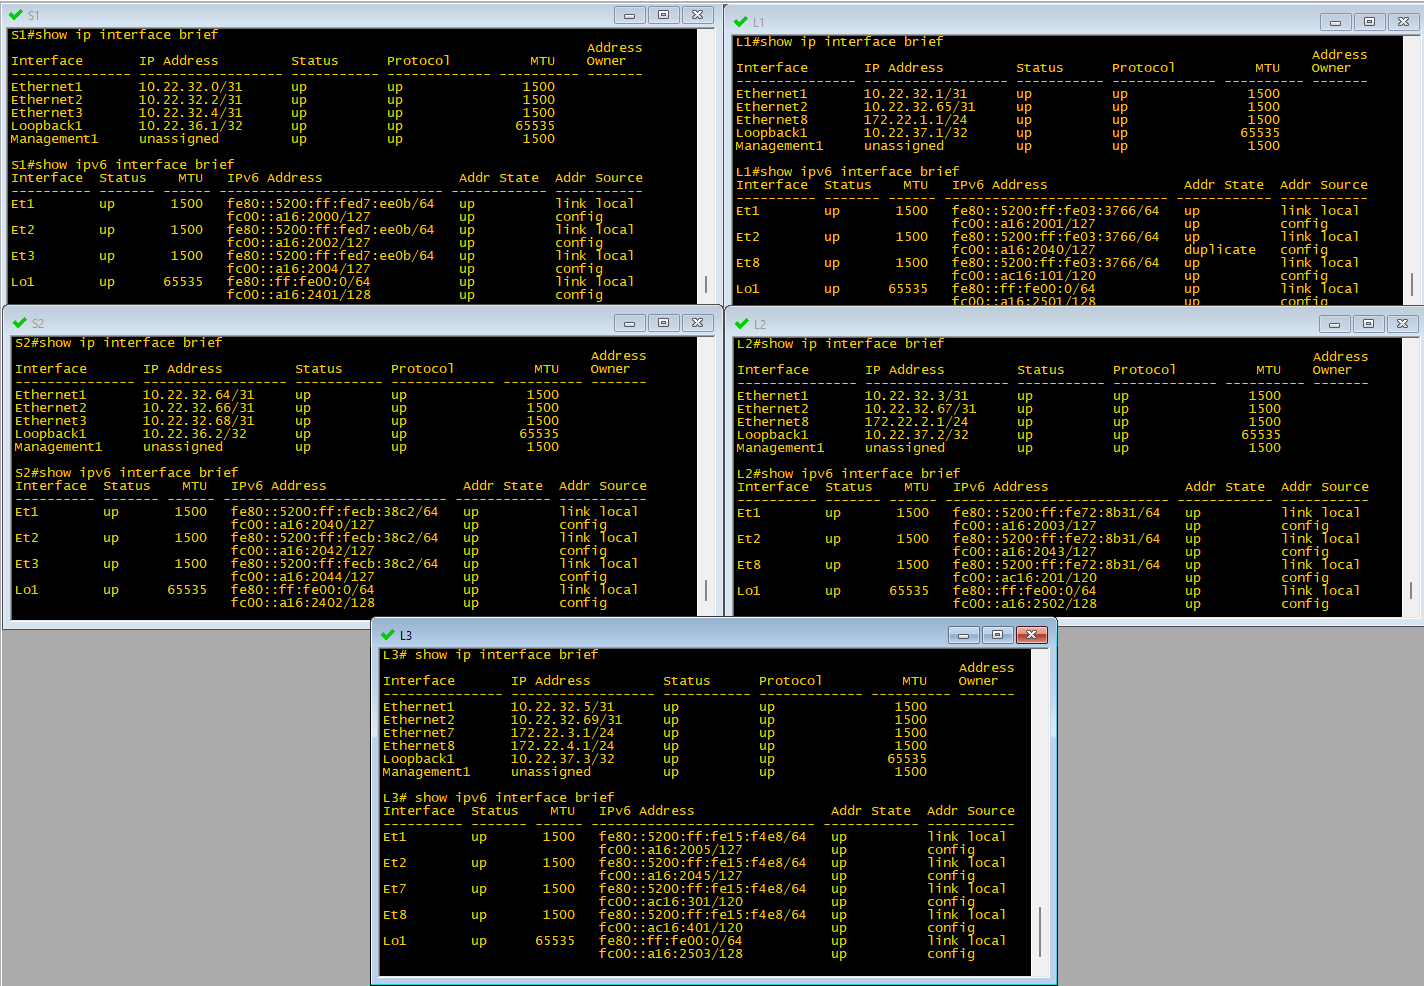
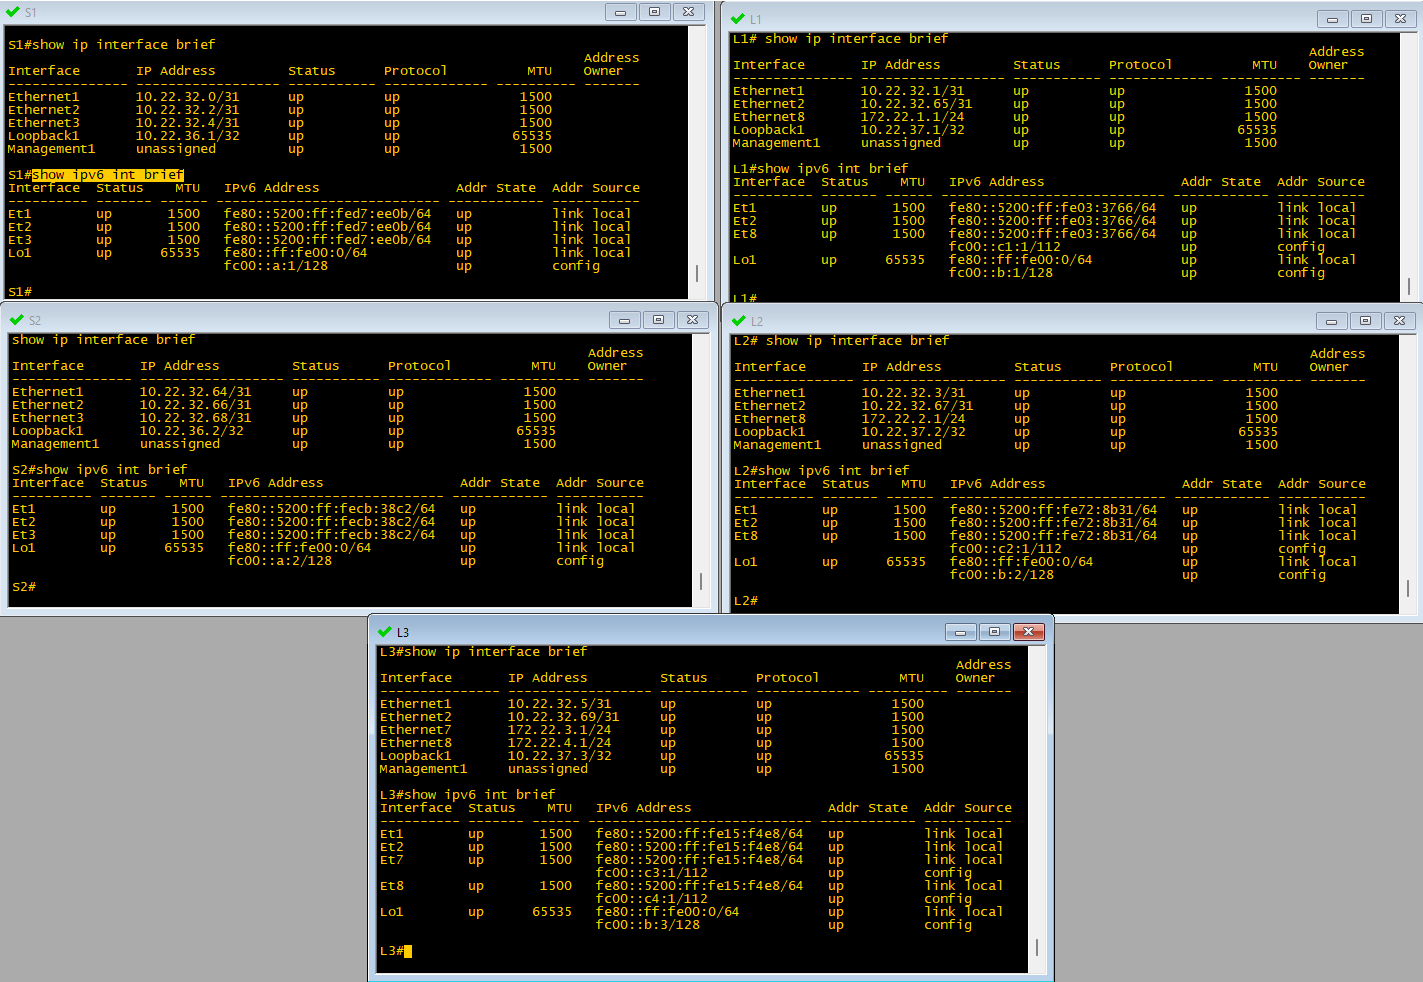
L3

Changed region(s): [[0.0, 0.0, 1.0, 1.0], [0.5257, 0.6721, 0.5875, 0.7943]]

diff --git a/Lab3/readme.md b/Lab3/readme.md
@@ -19,7 +19,7 @@
 ![Схема сети, используемая в данной лабораторной работе](./img/topology_lab3.png)
 
 
-### IPv4 адресация, используемаяв данной работе
+### IPv4 адресация, используемая в данной работе
 
 
 IPv4 адресация для устройств на стенде приведена в таблицах ниже.
@@ -58,42 +58,37 @@ IPv4 адресация для устройств на стенде привед
 | **C4** | 172.22.4.44/24 | 172.22.4.1 |
 
 
-Для IPv6 адресного плана, чтобы долго не думать, возмем за основу адресацию IPv4, просто переложив адреса IPv4 в последние 4 октета адреса IPv6  в диапазоне ULA (Unique Local Address) (fc00::/7) 
+Для IPv6 адресов клиентских подсетей и loopback возмем произвольные адреса в диапазоне ULA (Unique Local Address) (fc00::/7). 
+Для P2P сетей будем использовать link-local адреса.
 
 ### IPv6 адресация, используемая в данной работе
 
-#### Подсети, выделенные для P2P интерфейсов:
-
-| P2P |	L1 | L2 | L3 |
-|---|----|---|---|
-| **S1** | fc00::a16:2000/127 | fc00::a16:2002/127 | fc00::a16:2004/127 |
-| **S2** | fc00::a16:2040/127 | fc00::a16:2042/127 | fc00::a16:2044/127 |
 
 #### Адреса Loopback интерфейсов:
 
 |  Spine |	S1 | S2 |
 |-------------|---------------|---------------|
-| loopback | fc00::a16:2401/128 | fc00::a16:2402/128 |
+| loopback | fc00::a:1/128 |  fc00::a:2/128  |
 
 |  Leaf |	L1 | L2 | L3 |
 |-------------|---------------|---------------|------------|
-| loopback |	fc00::a16:2501/128 | fc00::a16:2502/128 | fc00::a16:2503/128 |
+| loopback |  fc00::b:1/128  | fc00::b:2/128 | fc00::b:3/128 |
 
 #### Адреса интерфейсов в сторону клиентских подсетей:
 
 | If\Sw | L1 | L2 | L3 |
 |---|--|--|--|
-| **Ethernet 7** | | | fc00::ac16:301/120 |
-| **Ethernet 8** | fc00::ac16:101/120 | fc00::ac16:101/120 | fc00::ac16:401/120 |
+| **Ethernet 7** | | | fc00::c3.1/112 |
+| **Ethernet 8** | fc00::c1:1/112 | fc00::c2:1/112 | fc00::c4:1/112 |
 
 #### Настройки IP на клиентских устройствах:
 
 | Client | IP Addr | Def GW |
 |---|---|---|
-| **C1** | fc00::ac16:111/120 | fc00::ac16:101 |
-| **C2** | fc00::ac16:222/120 | fc00::ac16:201 |
-| **C3** | fc00::ac16:333/120 | fc00::ac16:301 |
-| **C4** | fc00::ac16:444/120 | fc00::ac16:401 |
+| **C1** | fc00::c1:11/120 | fc00::c1.1 |
+| **C2** | fc00::c2:22/120 | fc00::c2.1 |
+| **C3** | fc00::c3:33/120 | fc00::c3.1 |
+| **C4** | fc00::c4:44/120 | fc00::c4.1 |
 
 
 
@@ -120,7 +115,8 @@ IPv4 адресация для устройств на стенде привед
 #### Настраиваем интерфейсы
 
 - включаем на коммутаторе маршрутизацию IPv6;
-- на всех интерфейсах настраивает IPv6 адрес в дополнение к уже существующему IPv4;
+- включаем на интерфейсах IPv6;
+- на loopback и клиентских интерфейсах настраивает IPv6 адрес в дополнение к уже существующему IPv4;
 - включаем на интерфейсе протокол IS-IS для instance Underlay;
 - настраиваем тип интерфейса L1 и тип сети point-to-point;
 - включаем BFD и настраиваем рекомендованные значения таймеров;
@@ -138,7 +134,7 @@ interface Ethernet1
    no switchport
    ip address 10.22.32.0/31
    bfd interval 100 min-rx 100 multiplier 3
-   ipv6 address fc00::a16:2000/127
+   ipv6 enable
    isis enable Underlay
    isis bfd
    isis circuit-type level-1
@@ -151,7 +147,7 @@ interface Ethernet2
    no switchport
    ip address 10.22.32.2/31
    bfd interval 100 min-rx 100 multiplier 3
-   ipv6 address fc00::a16:2002/127
+   ipv6 enable
    isis enable Underlay
    isis bfd
    isis circuit-type level-1
@@ -164,7 +160,7 @@ interface Ethernet3
    no switchport
    ip address 10.22.32.4/31
    bfd interval 100 min-rx 100 multiplier 3
-   ipv6 address fc00::a16:2004/127
+   ipv6 enable
    isis enable Underlay
    isis bfd
    isis circuit-type level-1
@@ -174,7 +170,7 @@ interface Ethernet3
 !
 interface Loopback1
    ip address 10.22.36.1/32
-   ipv6 address fc00::a16:2401/128
+   ipv6 address fc00::a:1/128
    isis enable Underlay
    isis passive
 !
@@ -204,7 +200,7 @@ interface Ethernet1
    no switchport
    ip address 10.22.32.64/31
    bfd interval 100 min-rx 100 multiplier 3
-   ipv6 address fc00::a16:2040/127
+   ipv6 enable
    isis enable Underlay
    isis bfd
    isis circuit-type level-1
@@ -217,7 +213,7 @@ interface Ethernet2
    no switchport
    ip address 10.22.32.66/31
    bfd interval 100 min-rx 100 multiplier 3
-   ipv6 address fc00::a16:2042/127
+   ipv6 enable
    isis enable Underlay
    isis bfd
    isis circuit-type level-1
@@ -230,7 +226,7 @@ interface Ethernet3
    no switchport
    ip address 10.22.32.68/31
    bfd interval 100 min-rx 100 multiplier 3
-   ipv6 address fc00::a16:2044/127
+   ipv6 enable
    isis enable Underlay
    isis bfd
    isis circuit-type level-1
@@ -240,7 +236,7 @@ interface Ethernet3
 !
 interface Loopback1
    ip address 10.22.36.2/32
-   ipv6 address fc00::a16:2402/128
+   ipv6 address fc00::a:2/128
    isis enable Underlay
    isis passive
 !
@@ -270,7 +266,7 @@ interface Ethernet1
    no switchport
    ip address 10.22.32.1/31
    bfd interval 100 min-rx 100 multiplier 3
-   ipv6 address fc00::a16:2001/127
+   ipv6 enable
    isis enable Underlay
    isis bfd
    isis circuit-type level-1
@@ -283,7 +279,7 @@ interface Ethernet2
    no switchport
    ip address 10.22.32.65/31
    bfd interval 100 min-rx 100 multiplier 3
-   ipv6 address fc00::a16:2040/127
+   ipv6 enable
    isis enable Underlay
    isis bfd
    isis circuit-type level-1
@@ -295,13 +291,13 @@ interface Ethernet8
    description ClientSubNet1
    no switchport
    ip address 172.22.1.1/24
-   ipv6 address fc00::ac16:101/120
+   ipv6 address fc00::c1:1/112
    isis enable Underlay
    isis passive
 !
 interface Loopback1
    ip address 10.22.37.1/32
-   ipv6 address fc00::a16:2501/128
+   ipv6 address fc00::b:1/128
    isis enable Underlay
    isis passive
 !
@@ -331,7 +327,7 @@ interface Ethernet1
    no switchport
    ip address 10.22.32.3/31
    bfd interval 100 min-rx 100 multiplier 3
-   ipv6 address fc00::a16:2003/127
+   ipv6 enable
    isis enable Underlay
    isis bfd
    isis circuit-type level-1
@@ -344,7 +340,7 @@ interface Ethernet2
    no switchport
    ip address 10.22.32.67/31
    bfd interval 100 min-rx 100 multiplier 3
-   ipv6 address fc00::a16:2043/127
+   ipv6 enable
    isis enable Underlay
    isis bfd
    isis circuit-type level-1
@@ -356,13 +352,13 @@ interface Ethernet8
    description ClientSubNet2
    no switchport
    ip address 172.22.2.1/24
-   ipv6 address fc00::ac16:201/120
+   ipv6 address fc00::c2:1/112
    isis enable Underlay
    isis passive
 !
 interface Loopback1
    ip address 10.22.37.2/32
-   ipv6 address fc00::a16:2502/128
+   ipv6 address fc00::b:2/128
    isis enable Underlay
    isis passive
 !
@@ -392,7 +388,7 @@ interface Ethernet1
    no switchport
    ip address 10.22.32.5/31
    bfd interval 100 min-rx 100 multiplier 3
-   ipv6 address fc00::a16:2005/127
+   ipv6 enable
    isis enable Underlay
    isis bfd
    isis circuit-type level-1
@@ -405,7 +401,7 @@ interface Ethernet2
    no switchport
    ip address 10.22.32.69/31
    bfd interval 100 min-rx 100 multiplier 3
-   ipv6 address fc00::a16:2045/127
+   ipv6 enable
    isis enable Underlay
    isis bfd
    isis circuit-type level-1
@@ -417,7 +413,7 @@ interface Ethernet7
    description ClientSubNet3
    no switchport
    ip address 172.22.3.1/24
-   ipv6 address fc00::ac16:301/120
+   ipv6 address fc00::c3:1/112
    isis enable Underlay
    isis passive
 !
@@ -425,13 +421,13 @@ interface Ethernet8
    description ClientSubNet4
    no switchport
    ip address 172.22.4.1/24
-   ipv6 address fc00::ac16:401/120
+   ipv6 address fc00::c4:1/112
    isis enable Underlay
    isis passive
 !
 interface Loopback1
    ip address 10.22.37.3/32
-   ipv6 address fc00::a16:2503/128
+   ipv6 address fc00::b:3/128
    isis enable Underlay
    isis passive
 !
@@ -458,3 +454,9 @@ end
 
 ##### Проверяем настройки адресов на интерфейсах:
 ![](./img/sh_ip_if.png)
+
+##### Проверяем IS-IS интерфейсы, убеждаемся, что включена поддержка IPv4 и IPv6:
+![](./img/sh_isis_if1.png)
+![](./img/sh_isis_if2.png)
+
+
